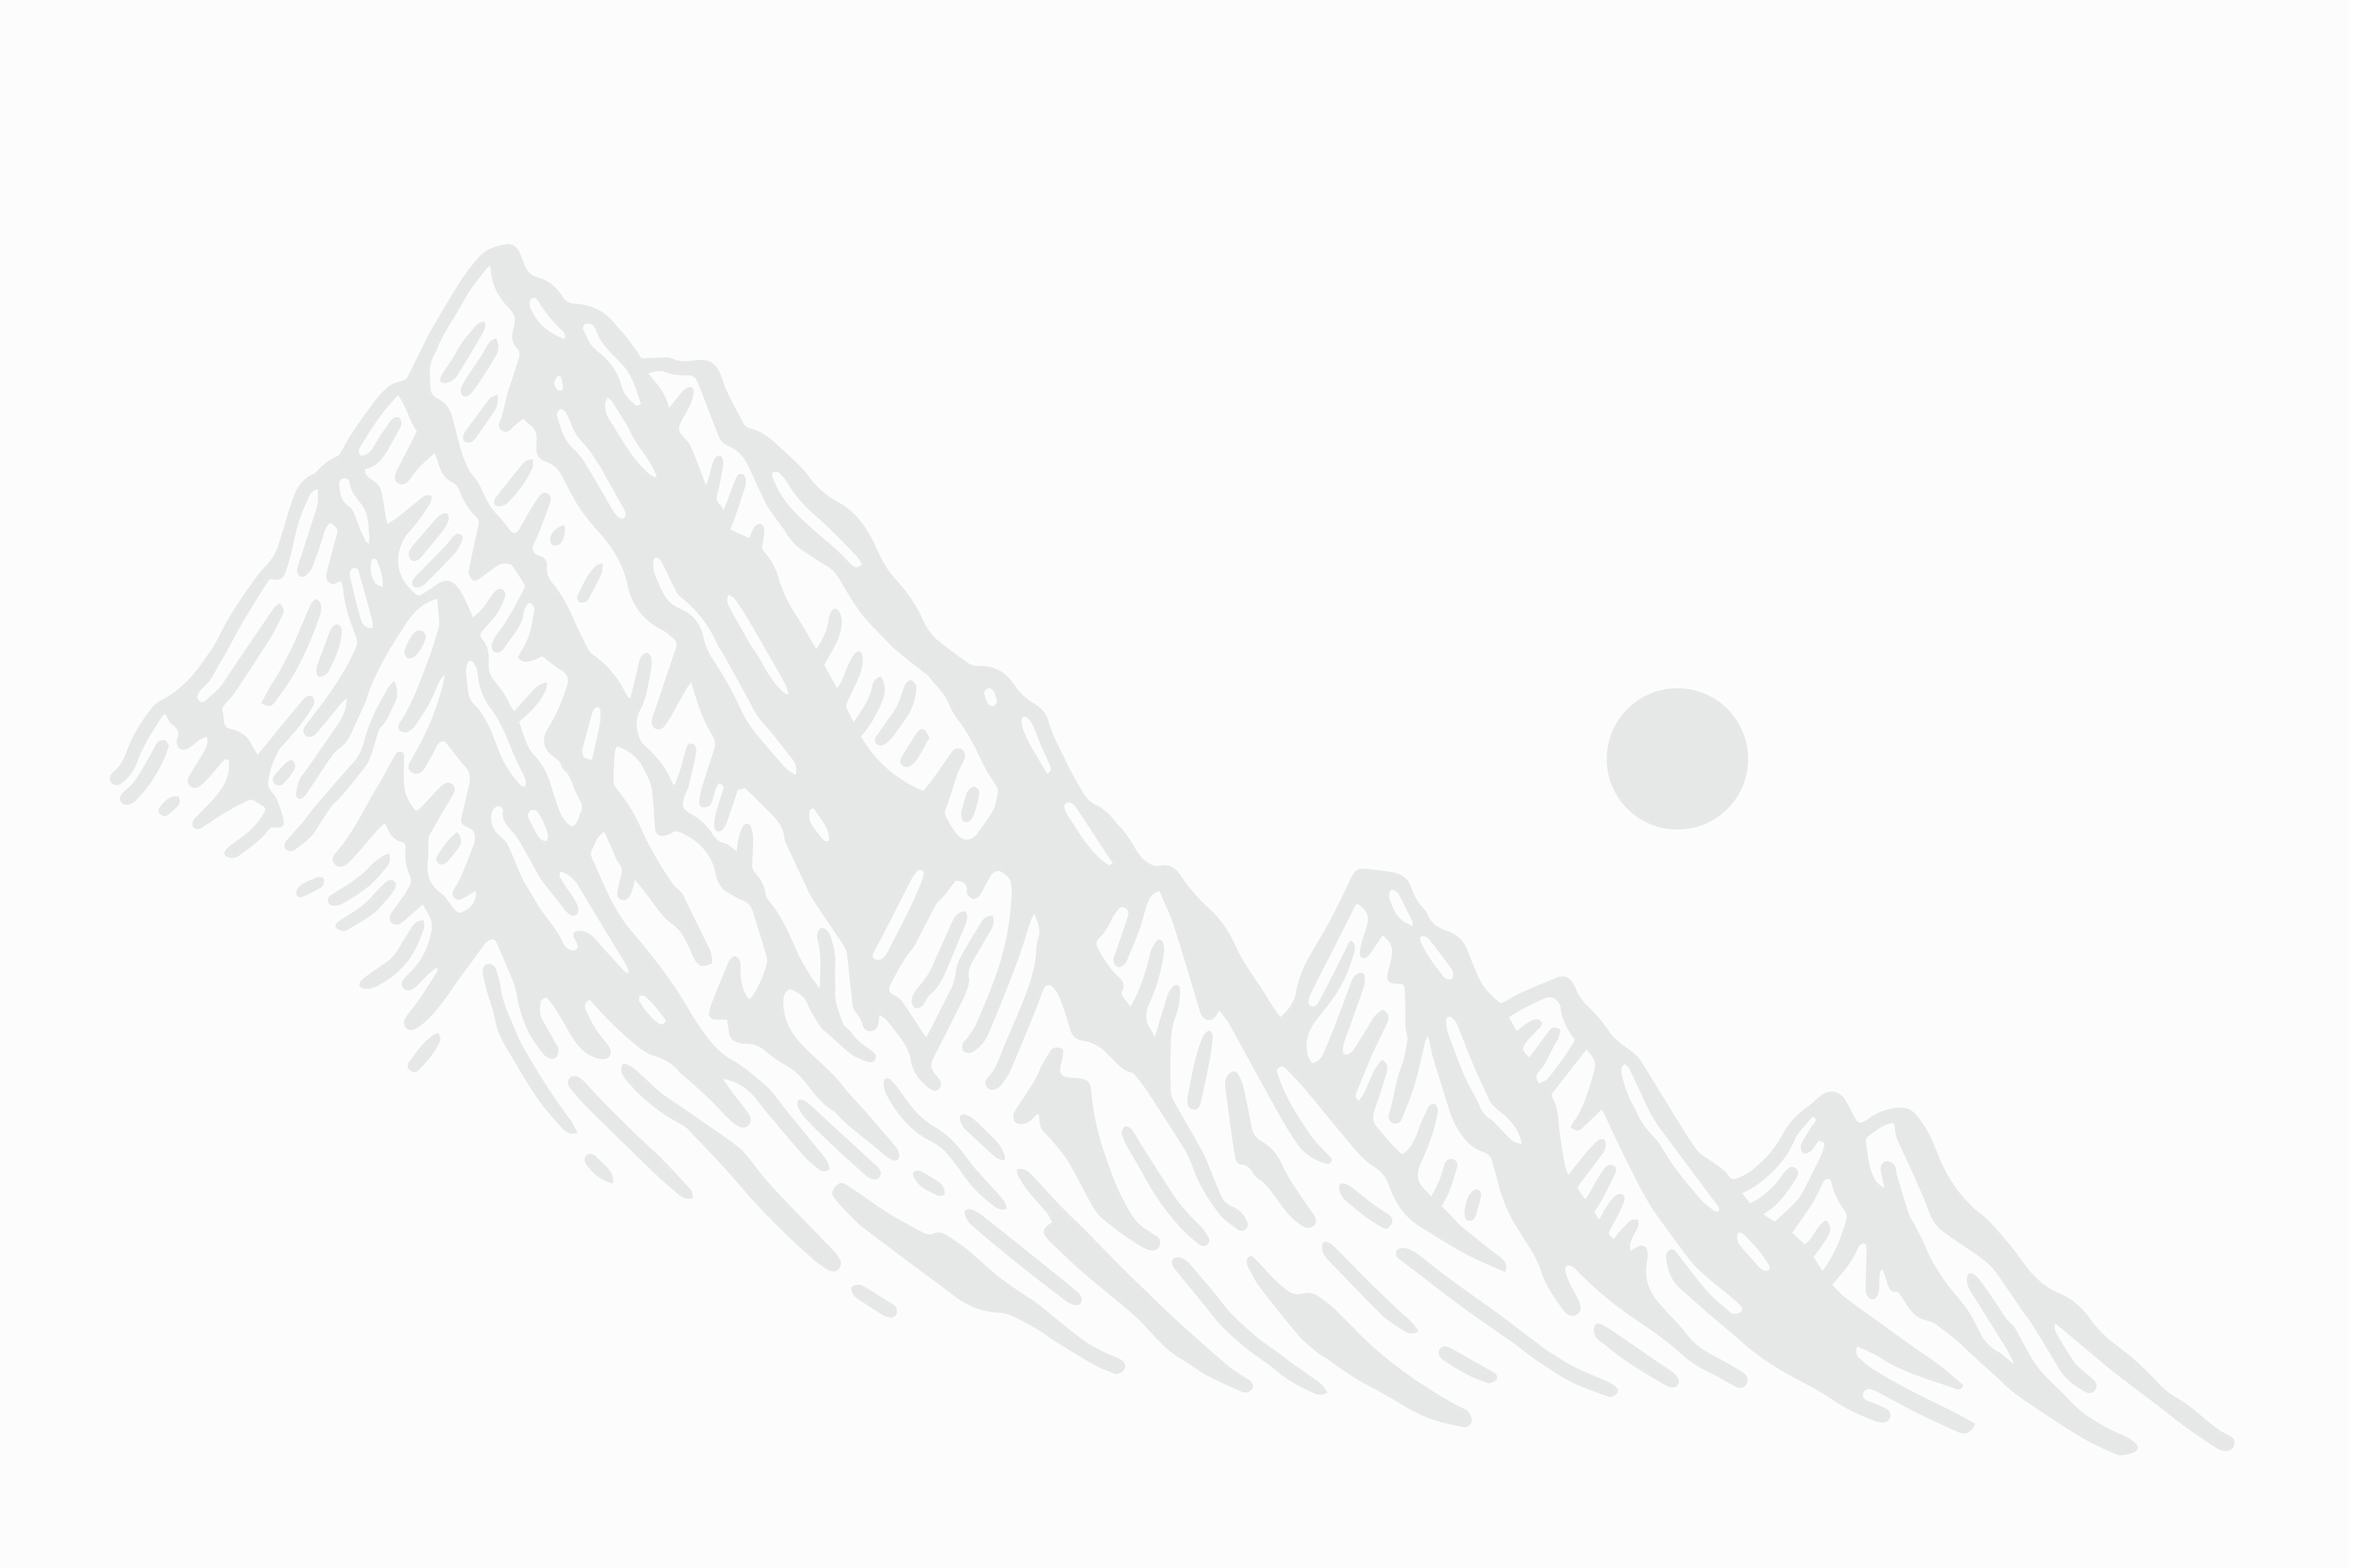
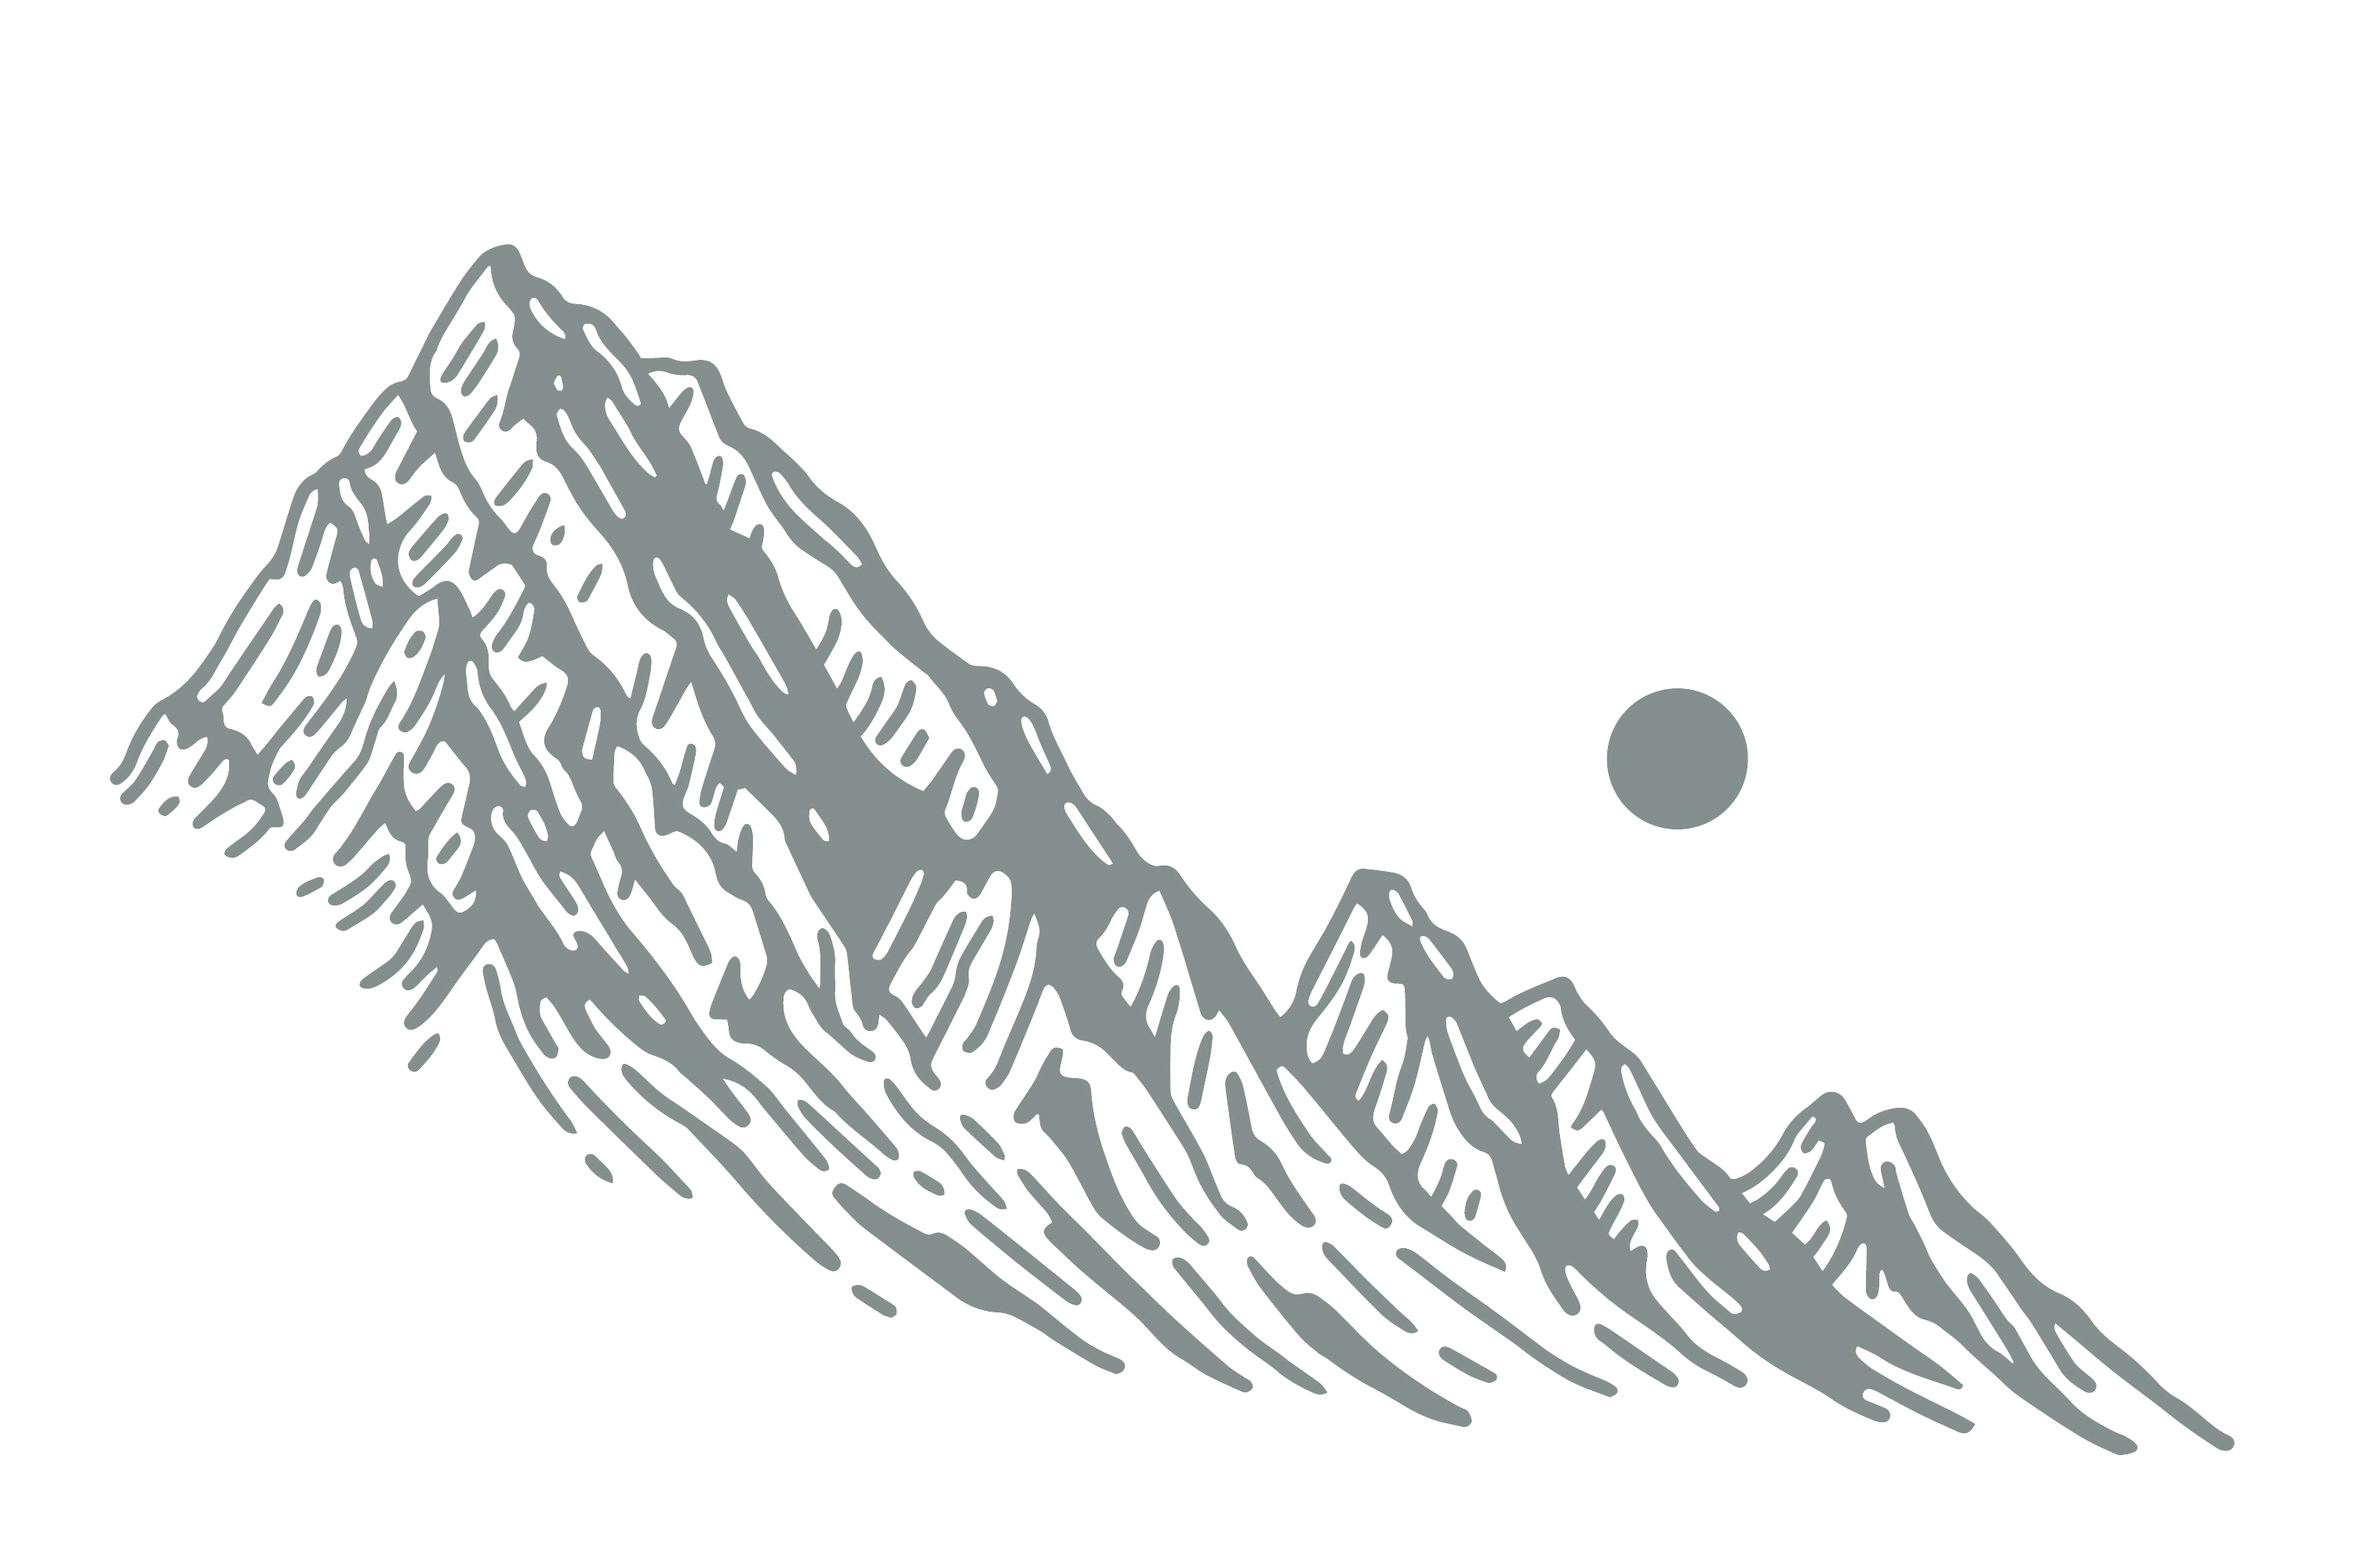
feat: update mountain artwork for dark mode

Changed region(s): [[0.031, 0.155, 0.961, 0.93], [0.682, 0.434, 0.744, 0.527]]

diff --git a/src/routes/_p.t.trips.tsx b/src/routes/_p.t.trips.tsx
@@ -50,13 +50,13 @@ function TripsPage() {
     <>
       <picture
         aria-hidden="true"
-        className="fixed left-0 bottom-0 w-full h-full md:w-3/4 md:h-3/4 xl:w-2/4 xl:h-2/4 opacity-50"
+        className="fixed left-0 bottom-0 w-full h-full md:w-3/4 md:h-3/4 xl:w-2/4 xl:h-2/4 opacity-10"
       >
         <source srcSet={mountainBgAvif} type="image/avif" />
         <img
           alt=""
           src={mountainBgWebp}
-          className="object-contain size-full select-none pointer-events-none object-center sm:object-bottom mix-blend-multiply"
+          className="object-contain size-full select-none pointer-events-none object-center sm:object-bottom mix-blend-multiply dark:invert"
         />
       </picture>
 
